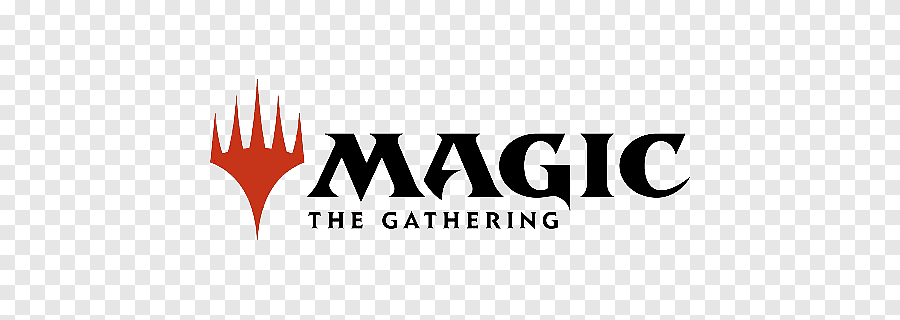
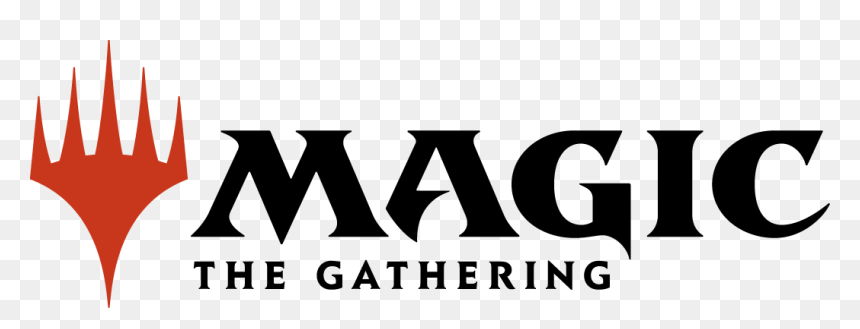
Adding remaining transparents and fixing fixed width for mobile

diff --git a/src/components/tf-navigation.vue b/src/components/tf-navigation.vue
@@ -1,16 +1,15 @@
 <script setup lang="ts">
-import { type Component, h, ref } from 'vue'
-import type { MenuOption } from 'naive-ui'
-import { NIcon, NMenu, NSplit } from 'naive-ui'
 import {
+  AlarmOutline as AnnouncementIcon,
+  CalendarOutline as CalendarIcon,
   HomeOutline as HomeIcon,
   InformationCircleOutline as InfoIcon,
-  CalendarOutline as CalendarIcon,
-  AlarmOutline as AnnouncementIcon,
 } from '@vicons/ionicons5'
-import { RouterLink } from 'vue-router'
+import type { MenuOption } from 'naive-ui'
+import { NIcon, NMenu } from 'naive-ui'
+import { type Component, h, ref } from 'vue'
 import { useI18n } from 'vue-i18n'
-import { useRouter } from 'vue-router'
+import { RouterLink, useRouter } from 'vue-router'
 
 const { t } = useI18n()
 const router = useRouter()

diff --git a/src/components/tf-main.vue b/src/components/tf-main.vue
@@ -21,7 +21,7 @@ import { NList, NListItem, NThing } from 'naive-ui'
     </n-list-item>
     <n-list-item>
       <img
-        src="@/assets/magic_tcg.png"
+        src="@/assets/Magicthegathering-logo.svg"
         alt="Magic The Gathering"
         style="width: 100px; height: auto; display: block; margin: 0 auto"
       />
@@ -42,7 +42,7 @@ import { NList, NListItem, NThing } from 'naive-ui'
     </n-list-item>
     <n-list-item>
       <img
-        src="@/assets/dnd_transparent.png"
+        src="@/assets/DungeonsAndDragons_Logo.svg"
         alt="Dungeons and Dragons"
         style="width: 100px; height: auto; display: block; margin: 0 auto"
       />

diff --git a/src/App.vue b/src/App.vue
@@ -8,13 +8,13 @@ import { darkTheme } from './theme'
 <template>
   <n-config-provider :theme-overrides="darkTheme">
     <n-layout class="tf-container">
-      <n-layout-header class="tf-max-width">
+      <n-layout-header class="tf-max-width" style="text-align: center">
         <header>
           <img alt="Vue logo" src="@/assets/tablefliplogo.jpg" width="125" height="125" />
           <tf-navigation />
         </header>
       </n-layout-header>
-      <n-layout-content style="width: 800px">
+      <n-layout-content>
         <RouterView />
       </n-layout-content>
     </n-layout>
